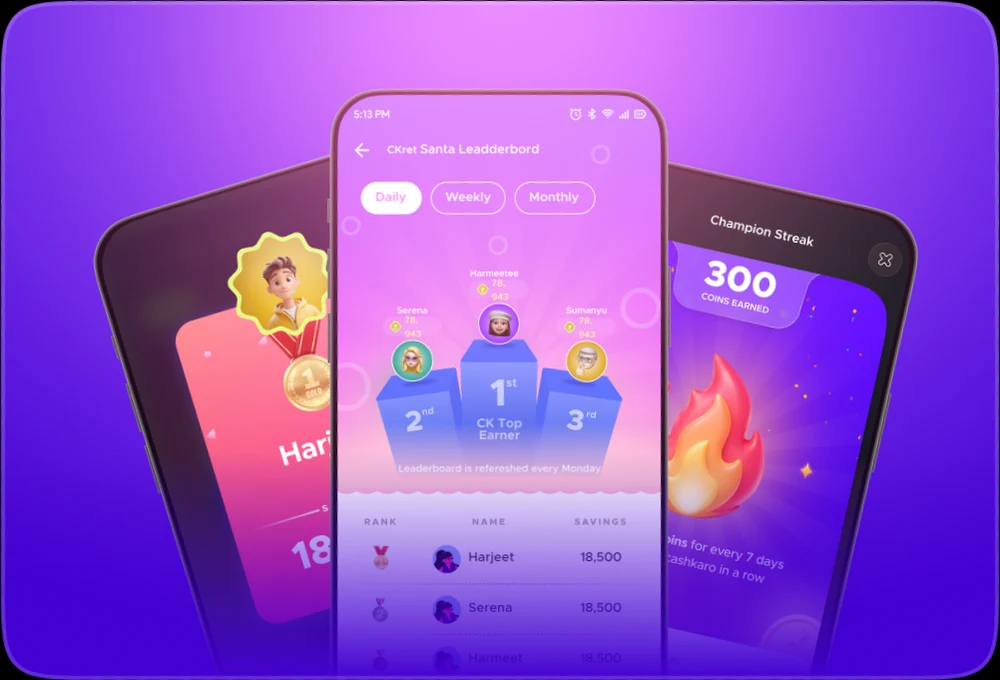
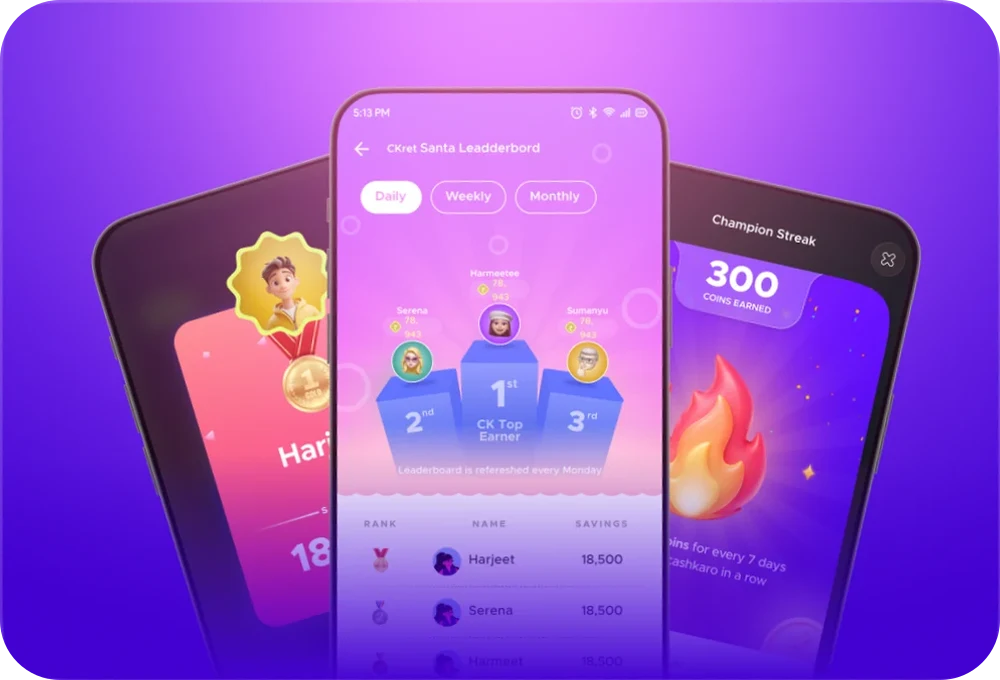
Cut clean transparent corners into the work card artwork
The Figma exports filled the area outside the rounded frame with black,
which showed as jagged black corners once the card left the folder.

diff --git a/index.html b/index.html
@@ -8,7 +8,7 @@
   <link rel="preconnect" href="https://fonts.googleapis.com">
   <link rel="preconnect" href="https://fonts.gstatic.com" crossorigin>
   <link href="https://fonts.googleapis.com/css2?family=Delicious+Handrawn&family=Nunito:wght@300;400;500;600;700&display=swap" rel="stylesheet">
-  <link rel="stylesheet" href="styles.css?v=13">
+  <link rel="stylesheet" href="styles.css?v=14">
 </head>
 <body>
 <div class="viewport" id="viewport">
@@ -127,7 +127,7 @@
       </div>
       <!-- Photo, folder, paper clip and wax seal -->
       <div class="box" style="left:75.42px;top:252.32px;width:491.9px;height:322.28px">
-        <div class="photo-card tilt work1-art"><img src="assets/work1-gamification.webp?v=3" alt=""></div>
+        <div class="photo-card tilt work1-art"><img src="assets/work1-gamification.webp?v=4" alt=""></div>
       </div>
       <div class="box" style="left:36.18px;top:334.97px;width:562.94px;height:206.207px">
         <div class="folder-top"><div class="clip"><img src="assets/work-folder.webp" alt=""></div></div>
@@ -164,7 +164,7 @@
       </div>
       <!-- Photo, folder, paper clip and wax seal -->
       <div class="box" style="left:75.42px;top:252.32px;width:491.9px;height:322.28px">
-        <div class="photo-card tilt work2-art"><img src="assets/work2-research.webp?v=3" alt=""></div>
+        <div class="photo-card tilt work2-art"><img src="assets/work2-research.webp?v=4" alt=""></div>
       </div>
       <div class="box" style="left:36.18px;top:334.97px;width:562.94px;height:206.207px">
         <div class="folder-top"><div class="clip"><img src="assets/work-folder.webp" alt=""></div></div>

diff --git a/styles.css b/styles.css
@@ -387,7 +387,8 @@ html.lenis, html.lenis body { height: auto; }
 .photo-card > img { position: absolute; left: calc(50% + 0.35px); top: calc(50% - 82.87px); width: 486.061px; height: 648.082px; transform: translate(-50%, -50%); object-fit: cover; }
 /* Gamification and user research cards: the 500x300 artwork has its own frame, so it takes the white sheet's place and moves as the sheet did. */
 .work-card:has(.work1-art, .work2-art) .sheet-tilt { display: none; }
-.photo-card:is(.work1-art, .work2-art) { width: 500px; height: 300px; }
+/* The artwork carries its own transparent 30px corners, so the white card background must not show around them. */
+.photo-card:is(.work1-art, .work2-art) { width: 500px; height: 300px; background: none; border-radius: 30px; }
 .photo-card:is(.work1-art, .work2-art) > img { left: 0; top: 0; width: 100%; height: 100%; transform: none; object-fit: fill; }
 .work-card .photo-card:is(.work1-art, .work2-art) { transform: translate(-1.42px, 22.04px); }
 .work-card:is(:hover, :focus-visible) .photo-card:is(.work1-art, .work2-art) { transform: translate(-1.42px, -9.56px) rotate(-4deg); }
